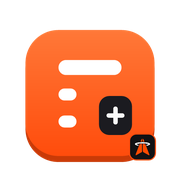
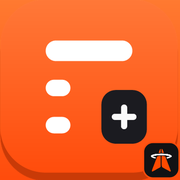
fix: preenche icones da calculadora sem margens brancas

diff --git a/index.html b/index.html
@@ -5,8 +5,8 @@
     <meta name="viewport" content="width=device-width, initial-scale=1.0" />
     <meta name="description" content="Calculadora de preços para Shopee, Mercado Livre, TikTok Shop e Amazon." />
     <link rel="shortcut icon" href="/icone.ico" type="image/x-icon" />
-    <link rel="icon" href="/calculator-icon-192.png" type="image/png" sizes="192x192" />
-    <link rel="apple-touch-icon" href="/apple-touch-icon.png" sizes="180x180" />
+    <link rel="icon" href="/calculator-icon-192.png?v=2" type="image/png" sizes="192x192" />
+    <link rel="apple-touch-icon" href="/apple-touch-icon.png?v=2" sizes="180x180" />
     <link rel="manifest" href="/manifest.webmanifest" />
     <meta name="theme-color" content="#ff4c0c" />
     <meta name="mobile-web-app-capable" content="yes" />
